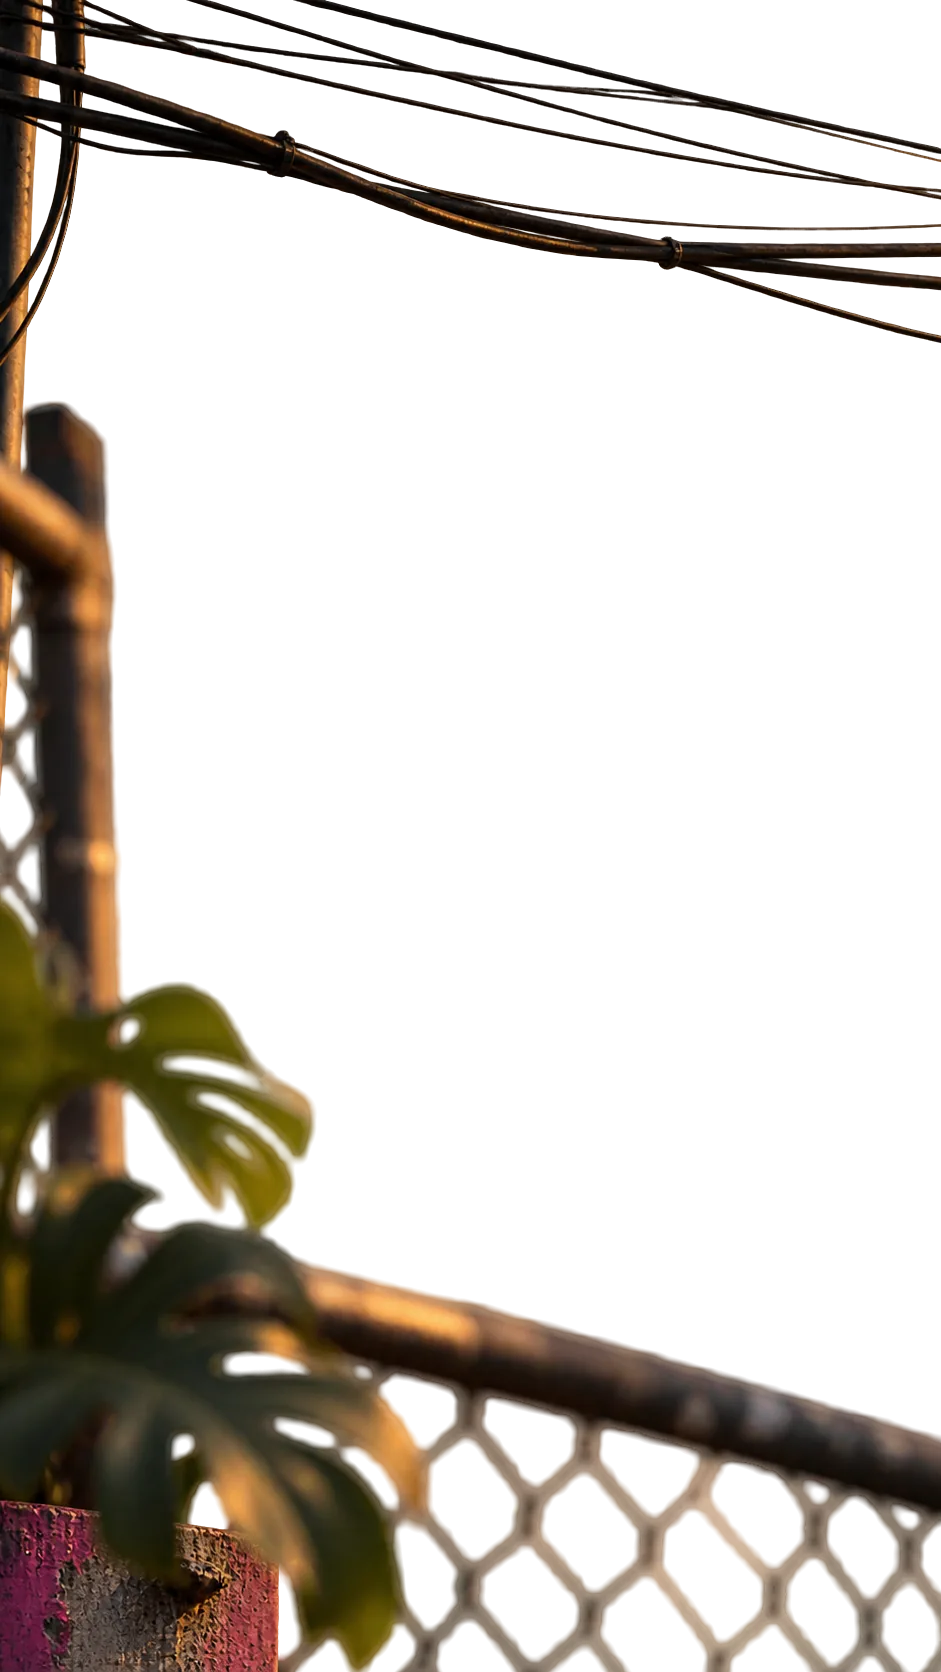
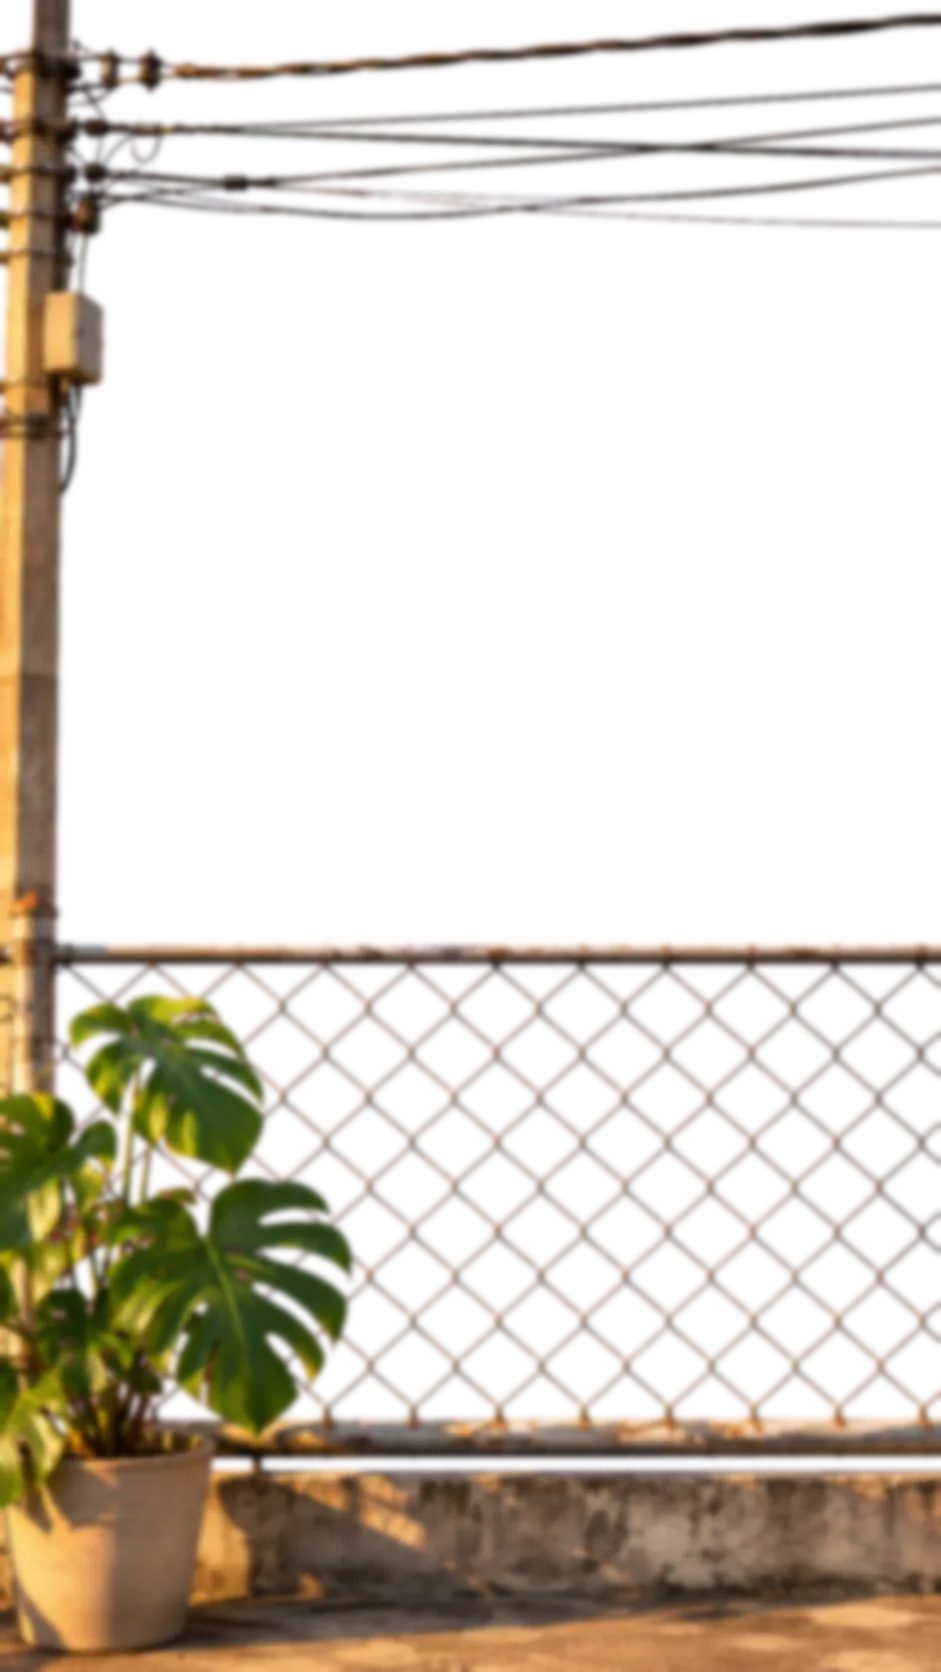
Stop-motion Peça por peça, camadas da laje recortadas por chroma e indicador lateral corrigido
Claude-Session: https://claude.ai/code/session_01164U81562XTQikcnSqQ19x

diff --git a/index.html b/index.html
@@ -102,6 +102,17 @@ canvas.ink{position:absolute;inset:0;width:100%;height:100%;display:block}
 .pre .pl{font-size:11px;letter-spacing:.3em;color:var(--muted);text-transform:uppercase}
 /* footer */
 footer .flogo{width:100%;overflow:visible}
+/* stop-motion */
+.smo{height:100svh;position:relative;overflow:hidden;background:var(--asfalto)}
+.smbg{position:absolute;inset:-40px;background-size:cover;background-position:center;filter:blur(40px) brightness(.35);transform:scale(1.1)}
+.smf{position:absolute;left:0;right:0;top:50%;aspect-ratio:941/1615;transform:translateY(-50%);box-shadow:0 30px 80px rgba(0,0,0,.6)}
+.smf img{position:absolute;inset:0;width:100%;height:100%;object-fit:cover;opacity:0}
+.smf img:first-child{opacity:1}
+@media(min-width:760px){.smf{right:auto;left:50%;height:90svh;transform:translate(-50%,-50%)}}
+.smc{position:absolute;left:var(--pad);top:84px;z-index:3;font-size:11px;letter-spacing:.24em;text-transform:uppercase;color:rgba(242,239,233,.75)}
+.smc b{font-family:"Rakis";font-weight:400;font-size:18px;color:var(--ciano);letter-spacing:0}
+.smt{position:absolute;left:var(--pad);bottom:clamp(110px,16svh,170px);z-index:3;font-family:var(--t);font-weight:900;font-size:clamp(44px,10vw,120px);line-height:.88;text-transform:uppercase;letter-spacing:-.02em;clip-path:inset(0 100% 0 0)}
+.smt em{font-style:normal;color:var(--ciano)}
 /* mergulho */
 .dive{height:100svh;position:relative;overflow:hidden;background:var(--asfalto)}
 .dive .dstage{position:absolute;left:0;top:0;will-change:transform}
@@ -413,7 +424,7 @@ footer p{font-size:12px;letter-spacing:.16em;color:var(--muted);text-transform:u
 .snav.on{opacity:1;pointer-events:auto}
 .snav a{display:flex;align-items:center;gap:6px;height:12px;text-decoration:none}
 .snav a i{display:block;width:10px;height:2px;background:rgba(242,239,233,.38);transform:skewY(-12deg);transition:width .35s,background .35s}
-.snav a b{font-family:"Rakis";font-weight:400;font-size:13px;color:var(--ciano);opacity:0;transform:translateX(6px);transition:opacity .3s,transform .3s}
+.snav a b{font-family:var(--s);font-weight:600;font-size:11px;letter-spacing:.06em;color:var(--ciano);opacity:0;transform:translateX(6px);transition:opacity .3s,transform .3s}
 .snav a.on i{width:22px;background:var(--ciano)}
 .snav a.on b{opacity:1;transform:none}
 .snav.lt a i{background:rgba(14,15,17,.35)}.snav.lt a.on i{background:var(--asfalto)}.snav.lt a b{color:var(--asfalto)}
@@ -529,6 +540,13 @@ footer p{font-size:12px;letter-spacing:.16em;color:var(--muted);text-transform:u
       <div><h3 class="h3">Fora do vocabulário</h3><div class="words bad"><span>sinergia</span><span>disruptivo</span><span>soluções</span><span>alavancar</span><span>inovador</span><span>empoderar</span></div></div>
     </div>
   </div>
+</section>
+
+<section class="smo" id="montagem" aria-label="Stop-motion: as letras do CRIAS em acrílico se montando sobre a mesa até acender em neon">
+  <div class="smbg" id="smbg"></div>
+  <div class="smf" id="smf"><img src="img/sm/q1.webp" alt="" decoding="async"><img src="img/sm/q2.webp" alt="" loading="lazy" decoding="async"><img src="img/sm/q3.webp" alt="" loading="lazy" decoding="async"><img src="img/sm/q4.webp" alt="" loading="lazy" decoding="async"><img src="img/sm/q5.webp" alt="" loading="lazy" decoding="async"><img src="img/sm/q6.webp" alt="" loading="lazy" decoding="async"></div>
+  <p class="smc">Quadro <b id="smn">01</b> / 06</p>
+  <h2 class="smt" id="smt">Peça<br>por <em>peça.</em></h2>
 </section>
 
 <!-- 03 LOGO -->
@@ -1065,6 +1083,20 @@ if(window.gsap&&window.ScrollTrigger){
       .to(".dive .dcopy > *",{opacity:1,y:0,stagger:.08,duration:.3},1.75)
       .to({},{duration:.3});
   }
+  /* stop-motion: quadro a quadro com tremidinha */
+  {const fr=gsap.utils.toArray("#smf img"),bg=document.getElementById("smbg"),num=document.getElementById("smn"),smf=document.getElementById("smf");
+   const tt=document.getElementById("smt"),SEQ=[0,1,2,3,4,5,4,5,4,5,5],W=[1,1,1,1,1.2,.25,.25,.25,.25,1.4,.4],TOT=W.reduce((a,b)=>a+b,0);
+   const desk=()=>matchMedia("(min-width:760px)").matches;let cur=-1;
+   const show=k=>{if(k===cur)return;cur=k;const f=SEQ[k];fr.forEach((im,i)=>im.style.opacity=i===f?1:0);num.textContent=String(f+1).padStart(2,"0");
+     bg.style.backgroundImage=`url(${fr[f].getAttribute("src")})`;
+     const j={x:gsap.utils.random(-5,5),y:gsap.utils.random(-5,5),rotation:gsap.utils.random(-.35,.35)};
+     gsap.set(smf,desk()?{xPercent:-50,yPercent:-50,...j}:{yPercent:-50,...j})};
+   show(0);
+   if(!reduce){
+     ScrollTrigger.create({trigger:"#montagem",start:"top top",end:"+=260%",pin:true,scrub:true,onUpdate:st=>{let p=st.progress*TOT,k=0;while(k<W.length-1&&p>W[k]){p-=W[k];k++}show(k);const r=Math.min(1,Math.max(0,(st.progress-.8)/.14));tt.style.clipPath=`inset(0 ${100-r*100}% 0 0)`}});
+   }else{show(10);gsap.set("#smt",{clipPath:"inset(0 0% 0 0)"})}
+  }
+
   /* laje: paralaxe */
   if(!reduce){
     gsap.timeline({scrollTrigger:{trigger:"#laje",start:"top top",end:"+=160%",scrub:1,pin:true}})
@@ -1219,8 +1251,8 @@ if(window.gsap&&window.ScrollTrigger){
   ScrollTrigger.sort((a,b)=>{const ea=a.trigger||document.body,eb=b.trigger||document.body;if(ea===eb)return 0;return ea.compareDocumentPosition(eb)&Node.DOCUMENT_POSITION_FOLLOWING?-1:1});
   ScrollTrigger.refresh();
   /* seções ativas na lateral */
-  const zones=[["inicio","inicio"],["cria","inicio"],["mergulho","inicio"],["traco","inicio"],["laje","inicio"],["essencia","essencia"],["voz","voz"],["logo","logo"],["cores","cores"],["tipografia","tipografia"],["flood","tipografia"],["elementos","elementos"],["motion","motion"],["social","social"],["aplicacoes","aplicacoes"],["narua","narua"],["cta","narua"],["arquivos","arquivos"],["foot","arquivos"]];
-  zones.forEach(([el,id])=>{const node=document.getElementById(el);if(!node)return;ScrollTrigger.create({trigger:node,start:"top 50%",end:"bottom 50%",onToggle:e=>{if(e.isActive){setSnav(id);snav.classList.toggle("lt",LIGHT.has(el))}}})});
+  const zones=[["inicio","inicio"],["cria","inicio"],["mergulho","inicio"],["traco","inicio"],["laje","inicio"],["essencia","essencia"],["voz","voz"],["montagem","logo"],["logo","logo"],["cores","cores"],["tipografia","tipografia"],["flood","tipografia"],["elementos","elementos"],["motion","motion"],["social","social"],["aplicacoes","aplicacoes"],["narua","narua"],["cta","narua"],["arquivos","arquivos"],["foot","arquivos"]];
+  zones.forEach(([el,id])=>{let node=document.getElementById(el);if(!node)return;if(node.parentElement.classList.contains("pin-spacer"))node=node.parentElement;ScrollTrigger.create({trigger:node,start:"top 50%",end:"bottom 50%",onToggle:e=>{if(e.isActive){setSnav(id);snav.classList.toggle("lt",LIGHT.has(el))}}})});
   ScrollTrigger.create({start:()=>innerHeight*.8,end:"max",onToggle:e=>{totop.classList.toggle("on",e.isActive);snav.classList.toggle("on",e.isActive)}});
   const hdr=document.getElementById("hdr");
   ScrollTrigger.create({trigger:"#cria",start:"top 70%",onEnter:()=>hdr.classList.add("on"),onLeaveBack:()=>hdr.classList.remove("on")});
